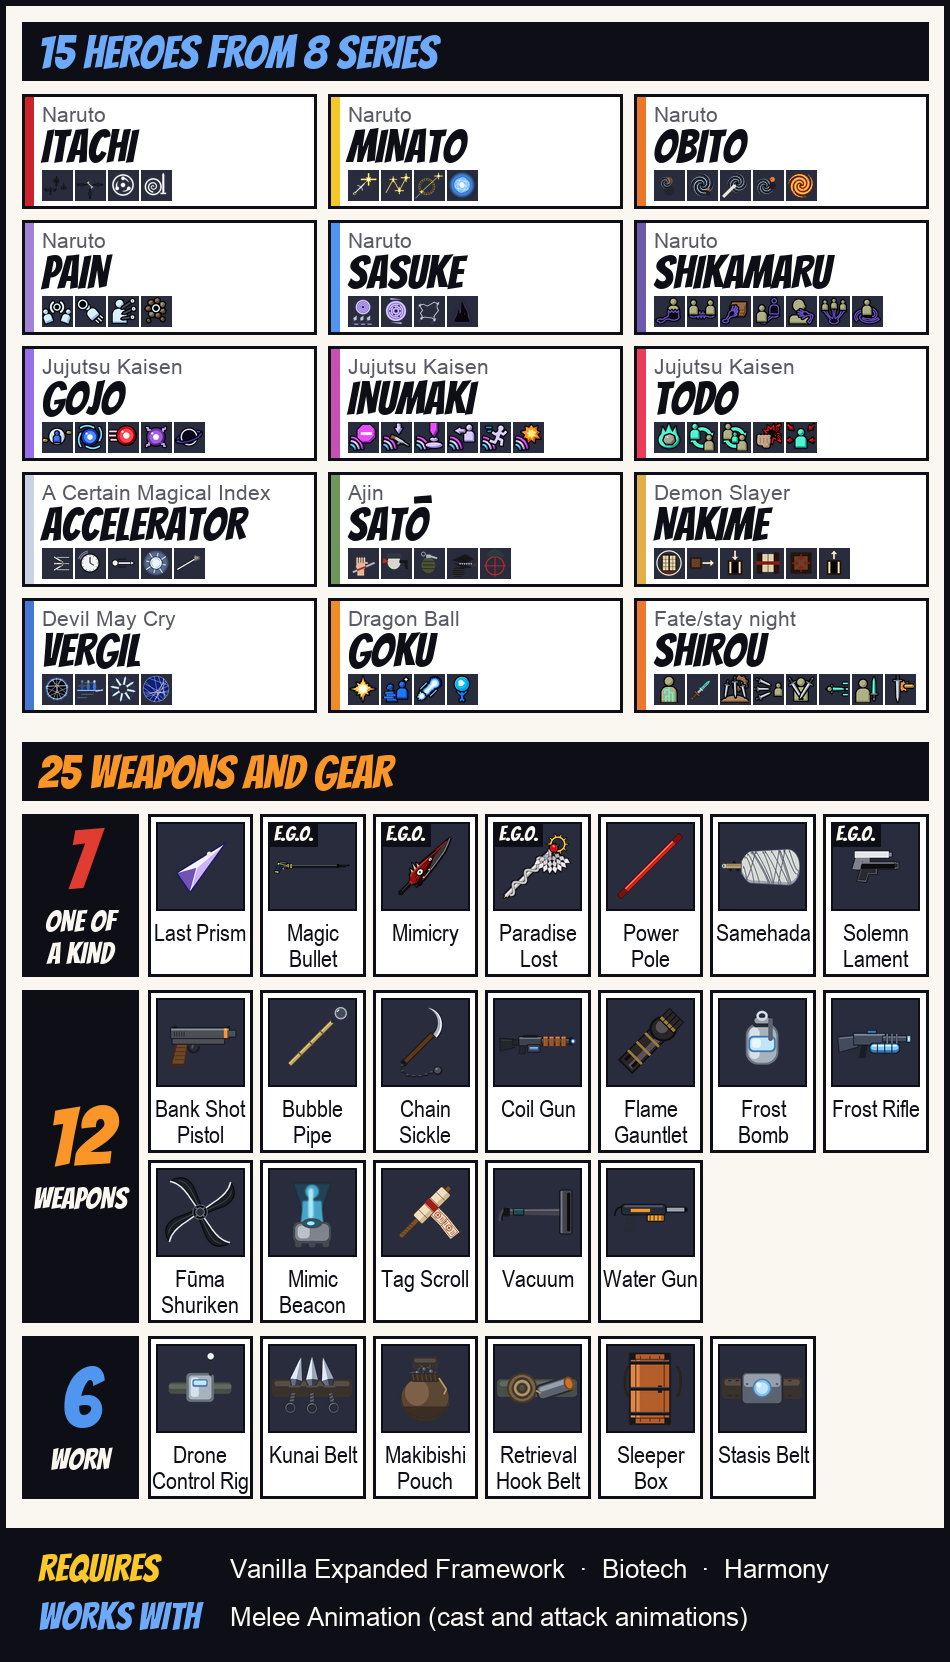
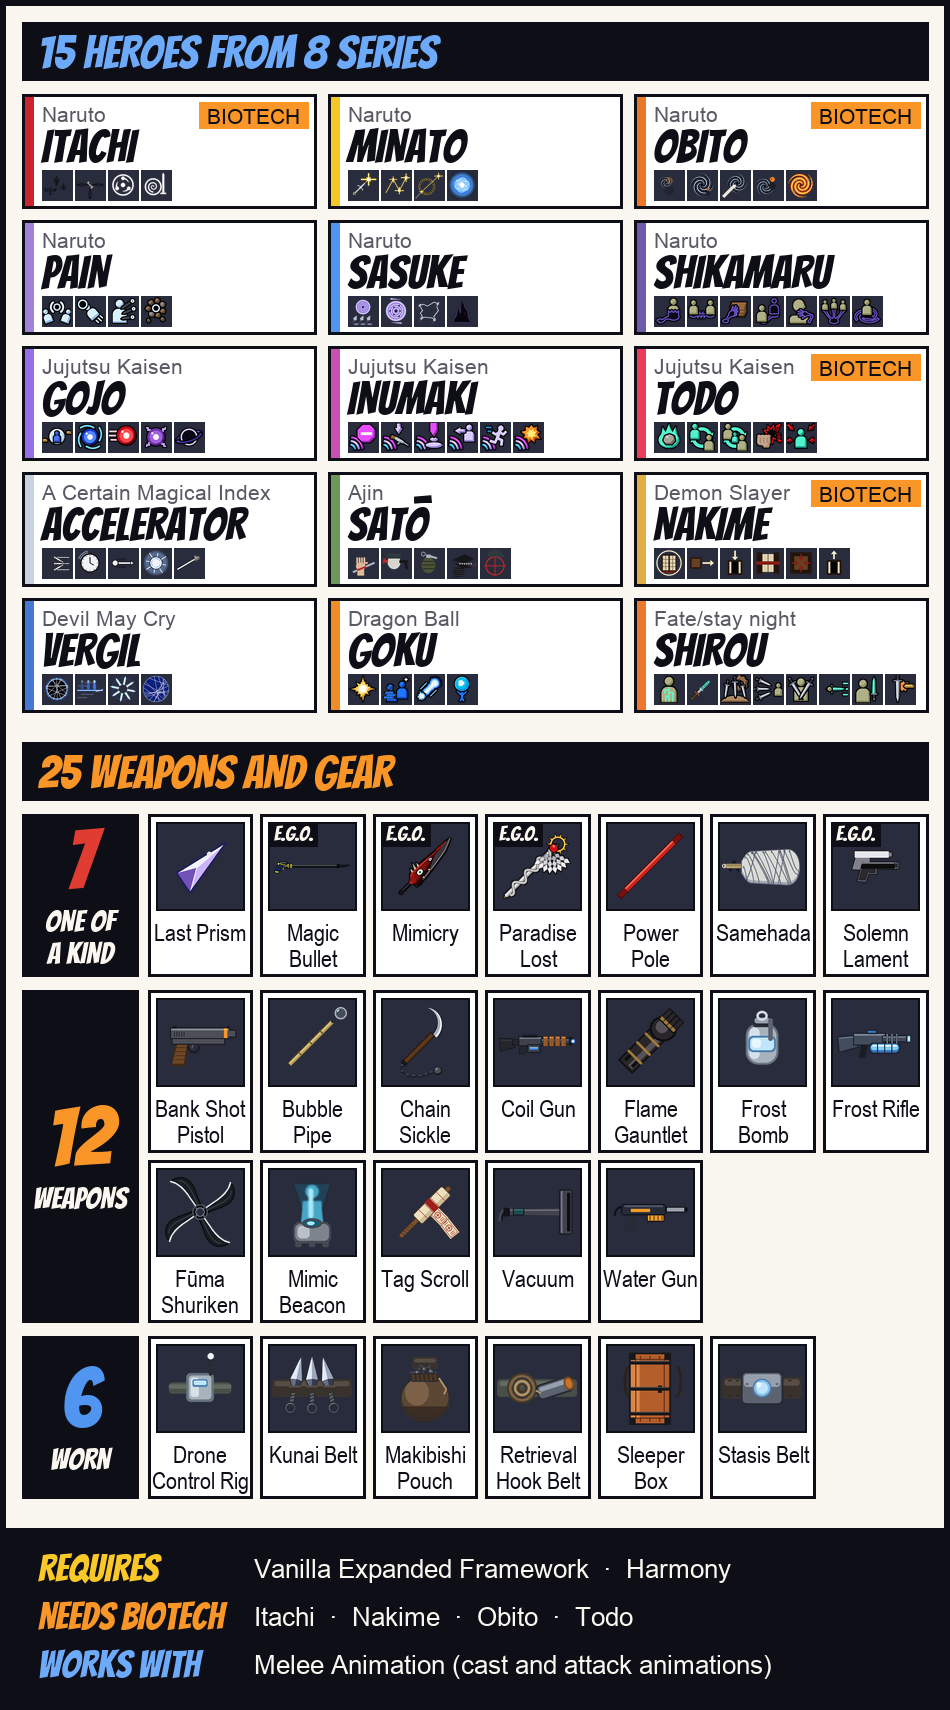
Biotech optional: roster card tags Itachi, Nakime, Obito and Todo and names them under Needs Biotech; wiki Biotech line

diff --git a/wiki.md b/wiki.md
@@ -171,6 +171,8 @@ An explosion goes off on everyone who hears it and also hits anyone next to a li
 
 What strikes him passes into another world, and so does whoever he touches.
 
+**Needs:** Biotech DLC
+
 **How to get it**
 
 - To become the Host, a colonist needs Melee 12 and Intellectual 10.
@@ -701,6 +703,7 @@ Stops time in a sphere around the wearer: nothing inside moves, burns, bleeds or
 
 - **1.7 (unstable beta):** It loads, but I haven't fully tested it yet. Some effects may look off on the new engine (known: the stasis field's dome draws black). The abilities themselves work the same. I'll add full support once 1.7 is stable. If you try it on the beta, let me know how it goes.
 - **Saves:** Safe to add to an existing save. Back up your save first, as with any big mod. Don't remove it from a save: heroes, items and pocket maps are saved with the colony.
+- **Biotech** (optional): Itachi, Nakime, Obito and Todo need it, because their powers live in a gene. Without Biotech, the resonance device shows them as "Needs Biotech". Everything else works without it.
 - **Melee Animation** (optional): I recommend using this. It adds animations to some abilities and weapons. Without it, everything still works, just without those animations.
 - **Combat Extended:** Not tested yet. A few weapons have CE patches; heroes are not balanced for CE.
 - **VPE:** Should work, since heroes don't use psycasts, and effects that block psycasts (Pain's chakra rods, Shirou's Trial) block VPE psycasts too.
